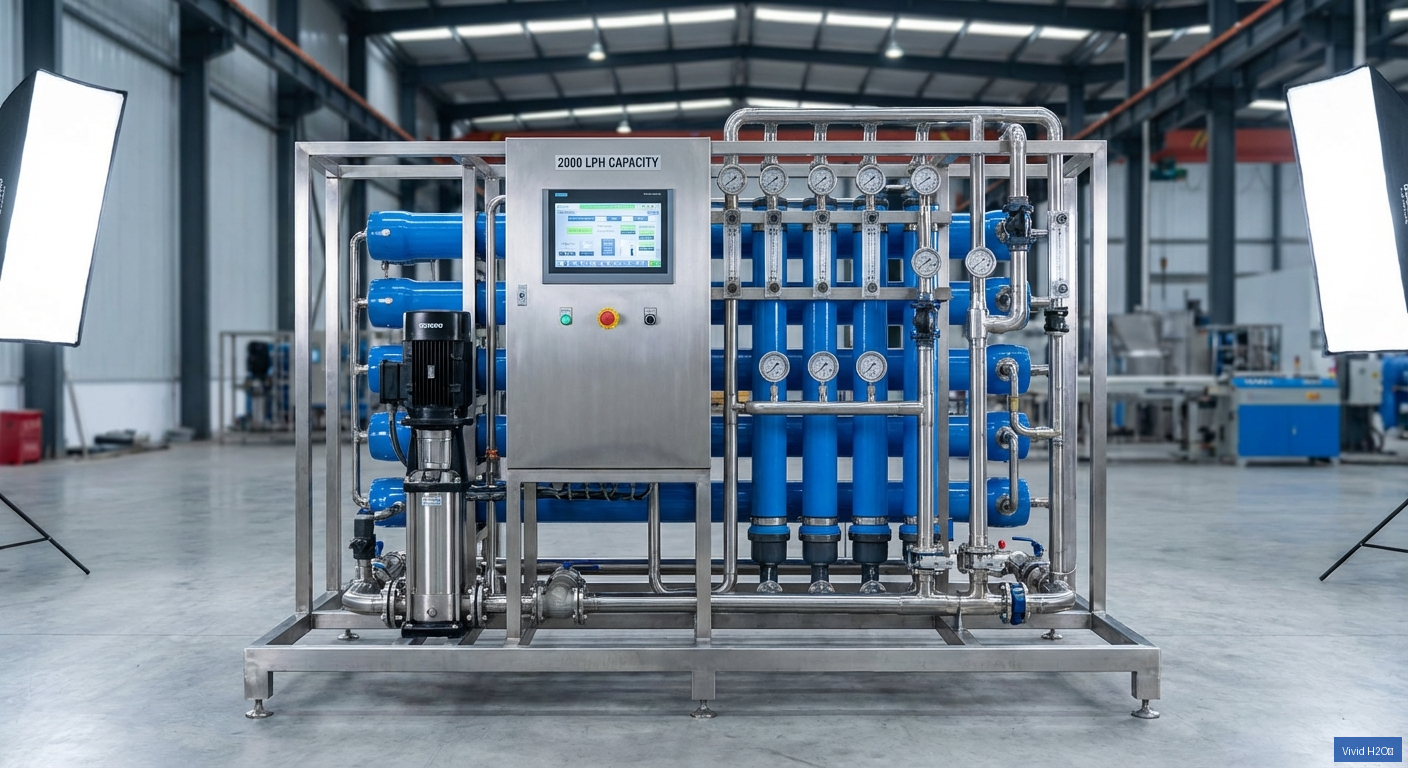
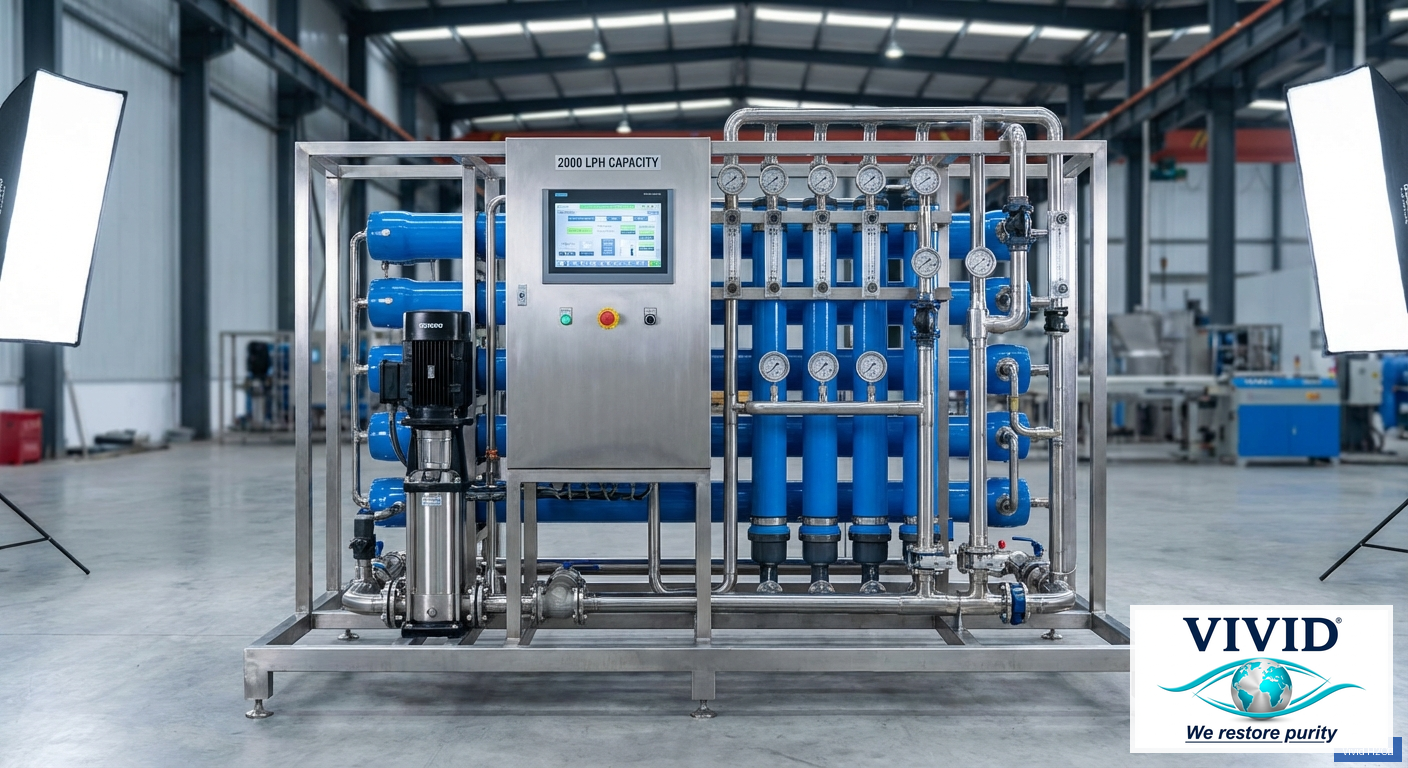
auto-commit for b54b2696-2193-4800-a682-ba4a74464459

Changed region(s): [[0.7812, 0.7812, 1.0, 1.0]]

diff --git a/frontend/src/components/Footer.jsx b/frontend/src/components/Footer.jsx
@@ -1,5 +1,5 @@
 import { Link } from "react-router-dom";
-import { Droplets, MapPin, Phone, Mail, Clock, ChevronRight } from "lucide-react";
+import { MapPin, Phone, Mail, Clock, ChevronRight } from "lucide-react";
 
 const Footer = () => {
   const currentYear = new Date().getFullYear();
@@ -26,14 +26,12 @@ const Footer = () => {
         <div className="grid grid-cols-1 md:grid-cols-2 lg:grid-cols-4 gap-10">
           {/* Company Info */}
           <div>
-            <div className="flex items-center gap-3 mb-6">
-              <div className="w-12 h-12 bg-white/10 rounded-lg flex items-center justify-center">
-                <Droplets className="w-7 h-7 text-cyan-300" />
-              </div>
-              <div>
-                <span className="font-heading font-bold text-xl block leading-tight">Vivid H2O<sup className="text-xs">®</sup></span>
-                <span className="text-xs text-blue-200">Solutions</span>
-              </div>
+            <div className="mb-6">
+              <img 
+                src="/logo-hd.png" 
+                alt="VIVID - We restore purity" 
+                className="h-16 w-auto bg-white rounded-lg p-2"
+              />
             </div>
             <p className="text-blue-100 text-sm leading-relaxed mb-6">
               Leading manufacturer and supplier of industrial water treatment solutions. 
@@ -134,7 +132,7 @@ const Footer = () => {
       <div className="border-t border-white/10">
         <div className="max-w-7xl mx-auto px-4 sm:px-6 lg:px-8 py-6 flex flex-col md:flex-row items-center justify-between gap-4">
           <p className="text-blue-200 text-sm">
-            © {currentYear} Vivid H2O® Solutions. All rights reserved.
+            © {currentYear} VIVID®. All rights reserved.
           </p>
           <p className="text-blue-200 text-sm">
             GST: 23CCQPS3136K1Z7 | Est. 2014

diff --git a/frontend/src/components/Navbar.jsx b/frontend/src/components/Navbar.jsx
@@ -1,6 +1,6 @@
 import { useState, useEffect } from "react";
 import { Link, useLocation } from "react-router-dom";
-import { Menu, X, Droplets, Phone, Mail, MapPin, ChevronDown } from "lucide-react";
+import { Menu, X, Phone, Mail, MapPin } from "lucide-react";
 import { Button } from "./ui/button";
 
 const Navbar = () => {
@@ -64,13 +64,11 @@ const Navbar = () => {
           <div className="flex items-center justify-between h-16 lg:h-20">
             {/* Logo */}
             <Link to="/" className="flex items-center gap-3" data-testid="logo">
-              <div className="w-12 h-12 bg-gradient-to-br from-[#0d47a1] to-[#1976d2] rounded-lg flex items-center justify-center shadow-lg">
-                <Droplets className="w-7 h-7 text-white" />
-              </div>
-              <div>
-                <span className="font-heading font-bold text-xl text-[#0d47a1] block leading-tight">Vivid H2O<sup className="text-xs">®</sup></span>
-                <span className="text-xs text-gray-500 font-medium">Solutions</span>
-              </div>
+              <img 
+                src="/logo-hd.png" 
+                alt="VIVID - We restore purity" 
+                className="h-14 w-auto"
+              />
             </Link>
 
             {/* Desktop Navigation */}
